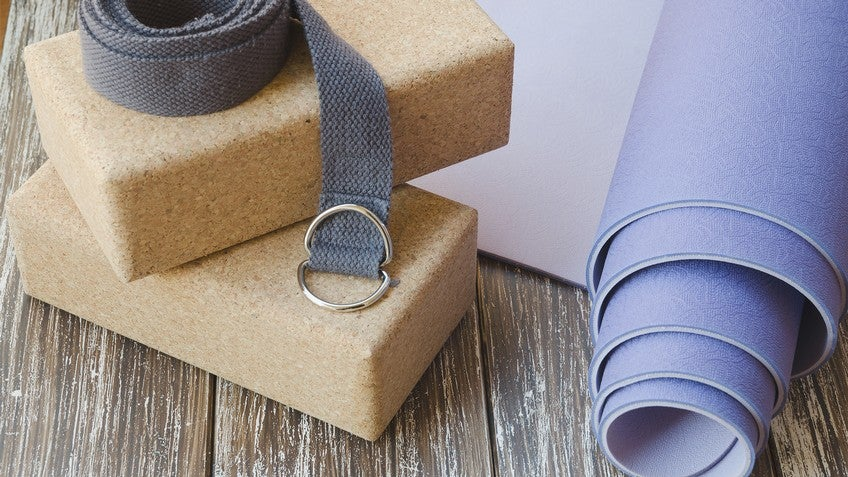
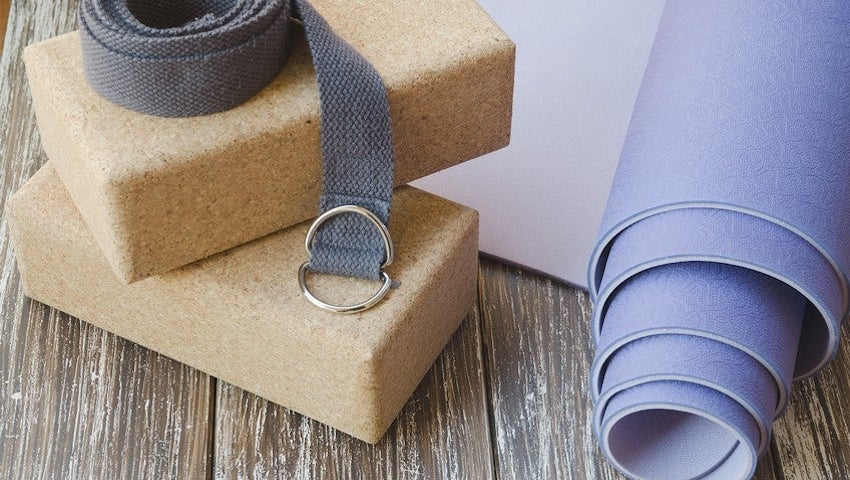
slider images updated

diff --git a/css/main.css b/css/main.css
@@ -5,9 +5,11 @@
   Default styling for the style guide 
 */
 body {
+    width: 100%;
     font-family: 'Poppins', sans-serif;
     color: #333333;
     padding: 0px;
+    margin: 0px;
     font-size: 16pt;
     font-weight: regular;
     line-height: 24pt;
@@ -123,8 +125,8 @@ li,ul,ol{
   display: flex;
   justify-content: center;
   list-style-type: none;
+    color: #666666;
 }
-<<<<<<< HEAD
 .main_menu :hover{
     color: #8FC1E3;
 }
@@ -134,7 +136,6 @@ li,ul,ol{
 .logo{
     
 }
->>>>>>> master
 .main_menu > li > a {
   color: #666666;
   display: block;
@@ -148,6 +149,7 @@ li,ul,ol{
 .main_menu > li {
   padding: 0 20px;
   position: relative;
+  
 }
 .main_menu li.drop ul.dropdown li.drop::after {
   color: #999;
@@ -517,7 +519,13 @@ bordered_bottom{
 
 
 * {box-sizing: border-box;}
-.mySlides {display: none;}
+.mySlides {
+    display: block;
+    width: 100%;
+    height: 100%;
+    animation: slide 18s infinite;
+    overflow: hidden;
+    }
 img {vertical-align: middle;}
 /*1.Slider
 learned from W3School: https://www.w3schools.com/howto/howto_js_slideshow.asp
@@ -525,9 +533,10 @@ learned from W3School: https://www.w3schools.com/howto/howto_js_slideshow.asp
 
 /* Slideshow container */
 .slideshow {
-  max-width: 1000px;
+  max-width: 100%;
   position: relative;
   margin: auto;
+  padding:0px;
 }
 /* On hover, add a black background color with a little bit see-through */
 .prev:hover, .next:hover {
@@ -573,9 +582,9 @@ learned from W3School: https://www.w3schools.com/howto/howto_js_slideshow.asp
 /* Fading animation */
 .fade {
   -webkit-animation-name: fade;
-  -webkit-animation-duration: 1.5s;
+  -webkit-animation-duration: 4s;
   animation-name: fade;
-  animation-duration: 1.5s;
+  animation-duration: 4s;
 }
 
 @-webkit-keyframes fade {

diff --git a/index.html b/index.html
@@ -52,15 +52,15 @@
 
 <div class="slideshow">
 <div class="mySlides fade">
-  <img src="img/img002.jpg"  style="width:100%">
+  <img src="img/slider1.jpg"  style="width:100%">
 </div>
 
 <div class="mySlides fade">
-  <img src="img/img002.jpg"  style="width:100%">
+  <img src="img/slider2.jpg"  style="width:100%">
 </div>
 
 <div class="mySlides fade">
-  <img src="img/img002.jpg"  style="width:100%">
+  <img src="img/slider3.jpg"  style="width:100%">
 </div>
 
 
